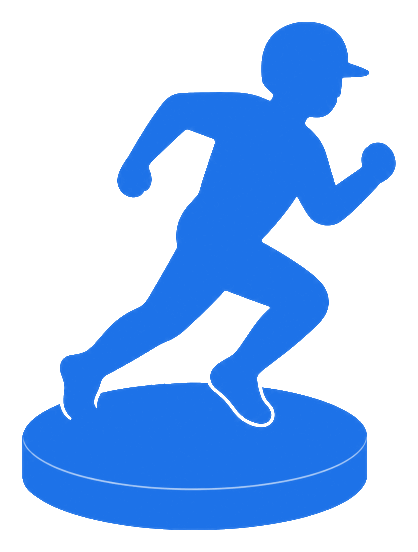
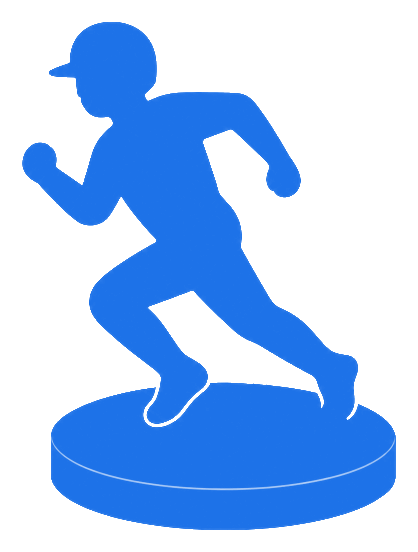
Set runner assets facing left

Changed region(s): [[0.0311, 0.0308, 0.9641, 0.9547], [0.5598, 0.9547, 0.622, 0.9855], [0.3732, 0.9547, 0.4354, 0.9855]]

diff --git a/public/sw.js b/public/sw.js
@@ -1,4 +1,4 @@
-const CACHE_NAME = "ai-score-v8";
+const CACHE_NAME = "ai-score-v9";
 const APP_SHELL = [
   "./",
   "./index.html",